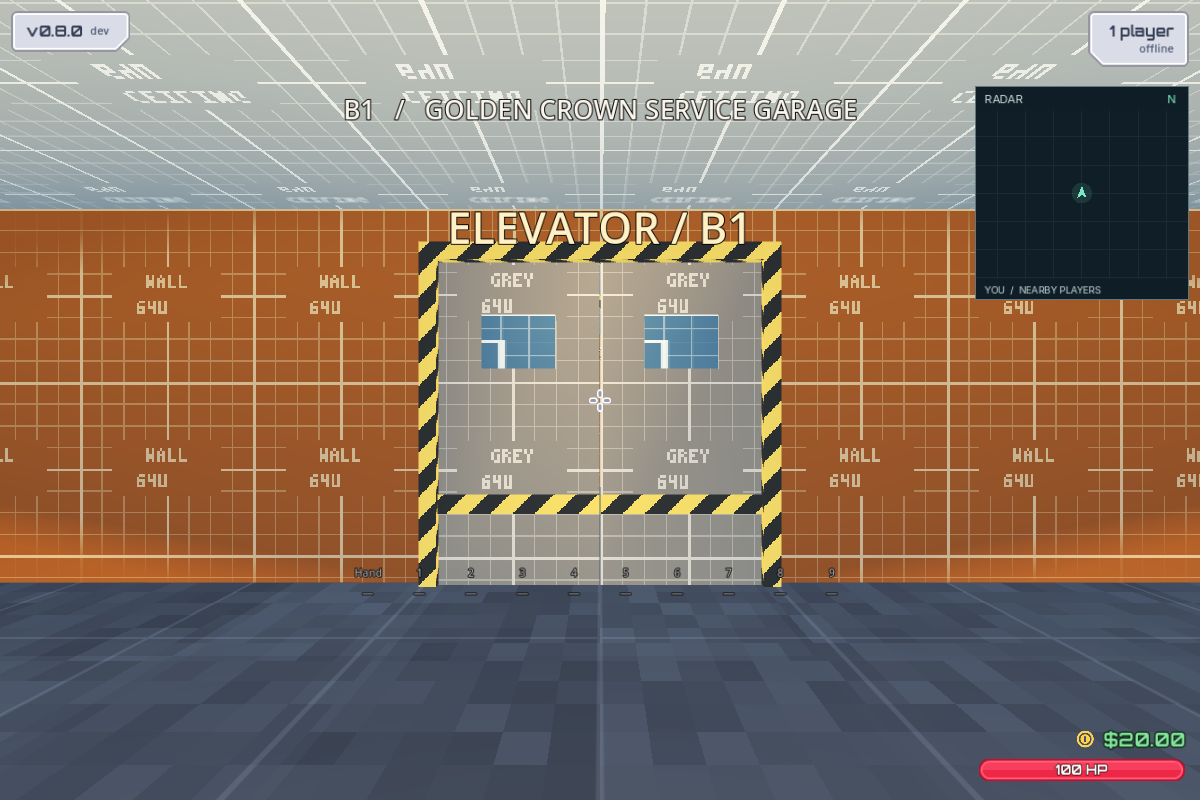
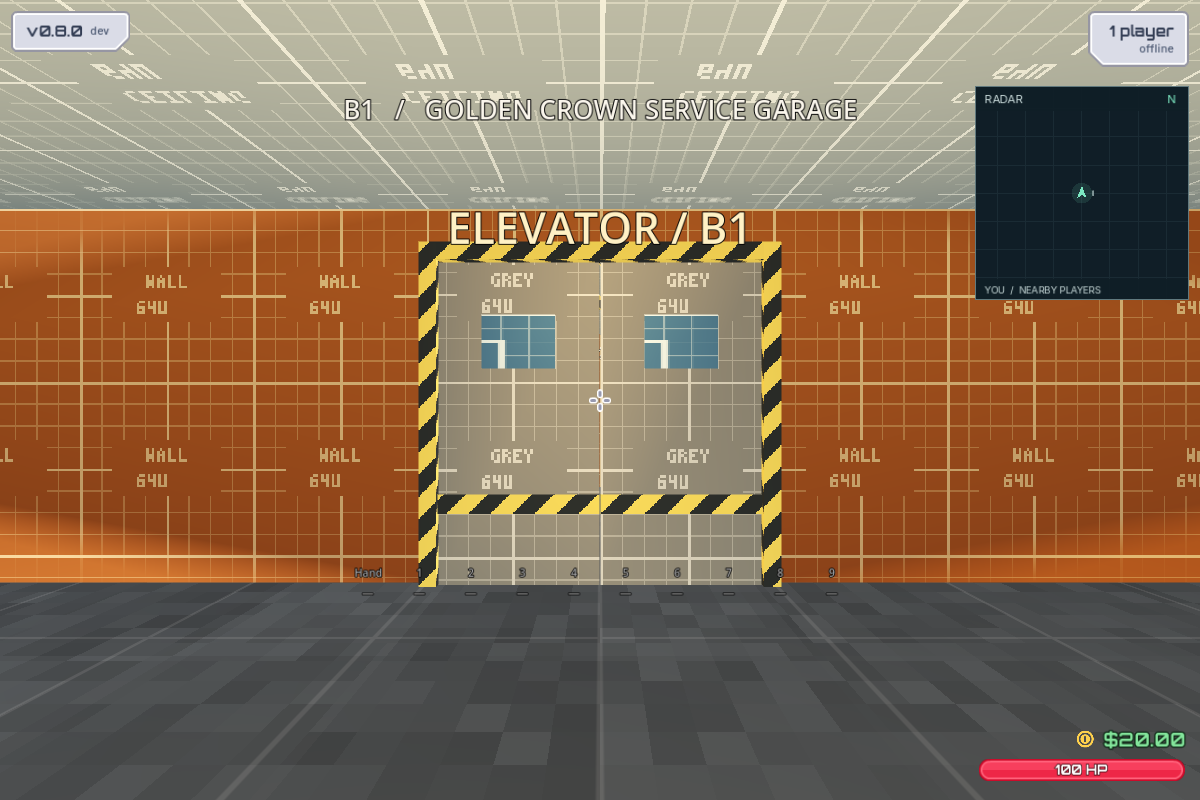
feat(game): house garage portal in casino teleport room

diff --git a/game/features/procedural_rooms/README.md b/game/features/procedural_rooms/README.md
@@ -2,8 +2,8 @@
 
 This directory contains original developer materials, a socket attachment prototype
 and standalone playable examples. `feature.tscn` now adds a shared in-game copy of
-the five-floor garage at z=1800. Use the cyan **PROCEDURAL GARAGE** portal beside
-casino spawn (x=5, z=5), or locate **Procedural Garage Portal** in GPS. E / controller
+the five-floor garage at z=1800. Use the cyan **PROCEDURAL GARAGE** portal inside
+the east-side **Teleport Room** (entrance x=34, z=-10), or locate **Teleport Room** in GPS. E / controller
 Use / touch Use teleports to B1. Its **RETURN TO CASINO** portal is beside arrival.
 The kit uses a fixed seed on every peer; there is no live reroll control, general random
 layout solver or automatic map mutation. The proposed complete system is described in

diff --git a/docs/design/procedural-rooms.md b/docs/design/procedural-rooms.md
@@ -9,7 +9,7 @@ distinct garage/utility/pump/storage sets. An exploded gallery shows the W03 mat
 faces. Structural shells use indexed inward faces with a canonical vertex pool and
 split boundaries instead of wall boxes. They do not
 implement the general random layout solver. The normal game now provides a labelled
-portal beside casino spawn to a shared copy at z=1800, with a return portal on B1
+portal inside the casino’s east-side teleport room to a shared copy at z=1800, with a return portal on B1
 and GPS routing. The garage adds
 47 physical joins, elevator cabs with instant validated floor transfers, and seeded
 set-piece population rules. Designers specify allowed sets, weights, density, local
